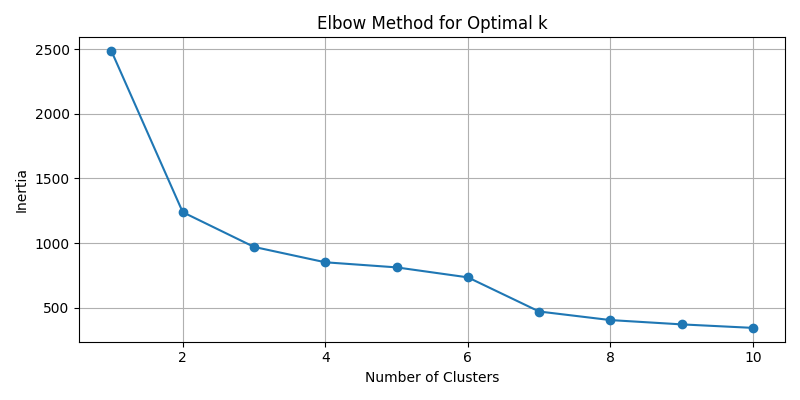
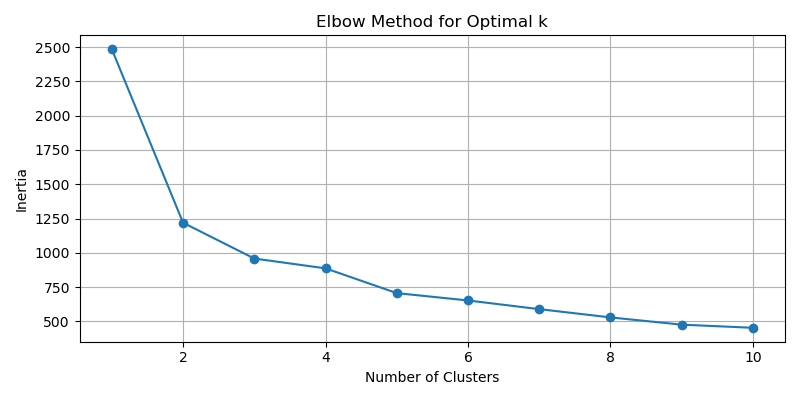
switched crime rate to occurances

diff --git a/models/idea_one_model.py b/models/idea_one_model.py
@@ -40,7 +40,7 @@ print(f"User ratings - Safety: {user_safety_rating}, Affordability: {user_afford
 
 #%%
 # load and preprocess your data
-df = pd.read_csv('/home/kashish/desktop/resiSense/data/idea_one/idea_one_data4.csv')
+df = pd.read_csv('/Users/mylayambao/resiSense/data/idea_one/idea_one_data4.csv')
 drop_cols = ['Crime_Occurances','Unnamed: 28']
 
 # remove any underscores in column names
@@ -49,9 +49,7 @@ df.drop(columns=drop_cols, inplace=True, errors='ignore')  # drop unnecessary co
 #df.drop('Unnamed: 28', axis=1, inplace=True)
 df = df.dropna()
 
-#%%
 
-=======
 # %% Clustering Section
 from sklearn.cluster import KMeans
 from sklearn.preprocessing import StandardScaler
@@ -64,7 +62,7 @@ print("df columns:", df.columns.tolist())
 
 # Select columns that are safe and valid for clustering
 clustering_features = df[[
-    'CrimeRate', 'rent2019', 'rent2020', 'rent2021', 'rent2022', 'rent2023',
+    'CrimeOccurances', 'rent2019', 'rent2020', 'rent2021', 'rent2022', 'rent2023',
     'TransitScore', 'WalkScore', 'BikeScore'
 ]]
 
@@ -117,7 +115,7 @@ plt.close()
 
 #Cluster interpretation summary
 summary = df.groupby('Cluster')[[
-    'CrimeRate', 'rent2019', 'rent2020', 'rent2021', 'rent2022', 'rent2023',
+    'CrimeOccurances', 'rent2019', 'rent2020', 'rent2021', 'rent2022', 'rent2023',
     'TransitScore', 'WalkScore', 'BikeScore'
 ]].mean().round(2)
 
@@ -131,14 +129,6 @@ for i in range(12):
 
 #  Drop clustering columns before model training to avoid prediction errors
 df.drop(columns=['Cluster', 'pca1', 'pca2'], inplace=True, errors='ignore')
-
-
-
-#%%
-
-# labels = ['Very Low', 'Low', 'Neutral', 'High', 'Very High']
-# df['rent_2023_category'], bins = pd.qcut(df['rent2023'], q=5, labels=labels, retbins=True)
-# print(bins)
 
 
 #%% 
@@ -201,7 +191,7 @@ bounds_dict = {
 }
 
 column_map = {
-    'crimerate': 'CrimeRate',
+    'crimerate': 'CrimeOccurances',
     'affordability': 'rent2024', 
     'transitscore': 'TransitScore', 
     'walkscore': 'WalkScore',
@@ -263,7 +253,7 @@ all_combinations = list(product(*combo_lists))
 
 # flatten tuples
 combo_df = pd.DataFrame(all_combinations, columns=[
-    'historical_afford', 'rent2023', 'CrimeRate', 'WalkScore', 'TransitScore', 'BikeScore'
+    'historical_afford', 'rent2023', 'CrimeOccurances', 'WalkScore', 'TransitScore', 'BikeScore'
 ])
 
 # split historical affordability into separate columns
@@ -274,7 +264,7 @@ combo_df = combo_df.drop(columns=['historical_afford'])
 
 columns = [
     'rent2019', 'rent2020', 'rent2021', 'rent2022',
-    'rent2023', 'CrimeRate', 'WalkScore', 'TransitScore', 'BikeScore'
+    'rent2023', 'CrimeOccurances', 'WalkScore', 'TransitScore', 'BikeScore'
 ]
 combo_df = combo_df[columns]
 print(combo_df)
@@ -356,9 +346,10 @@ print(f'Mean Absolute Error: {mae:.4f}')
 y_pred_using_combo = model.predict(combo_df)
 
 
-
 # print the columns and the predictions
 for i in range(len(y_pred_using_combo)):
     print(f"hypothetical neighborhood {i+1}: {combo_df.iloc[i].to_dict()} -> rent estimate{y_pred_using_combo[i]:.2f}")
 
 # %%
+
+
